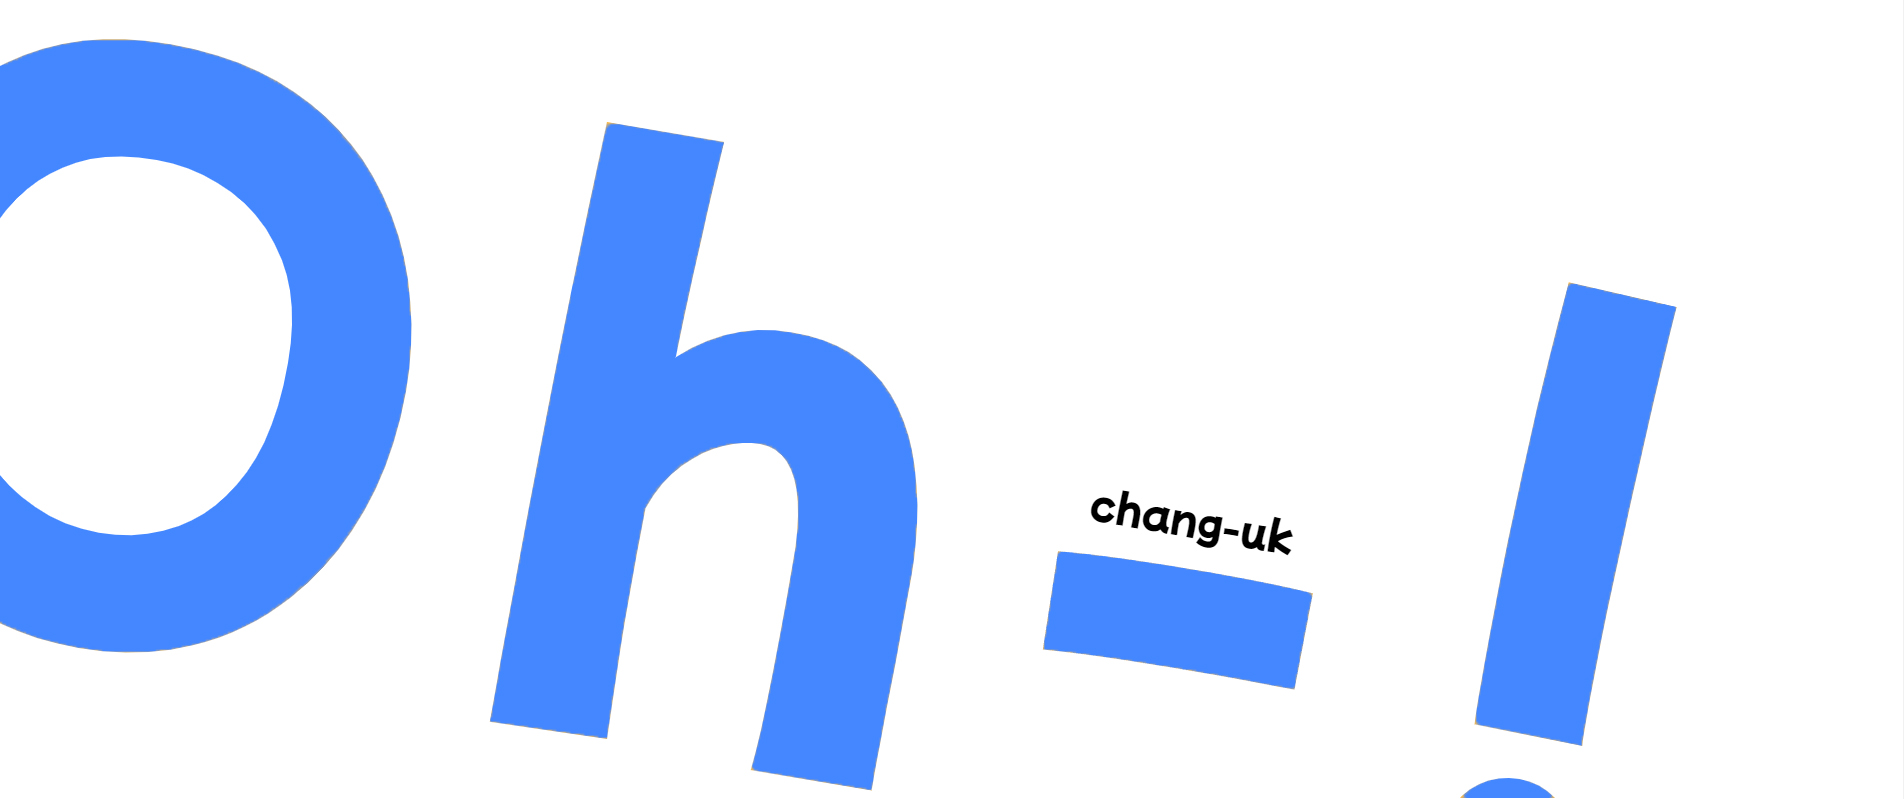
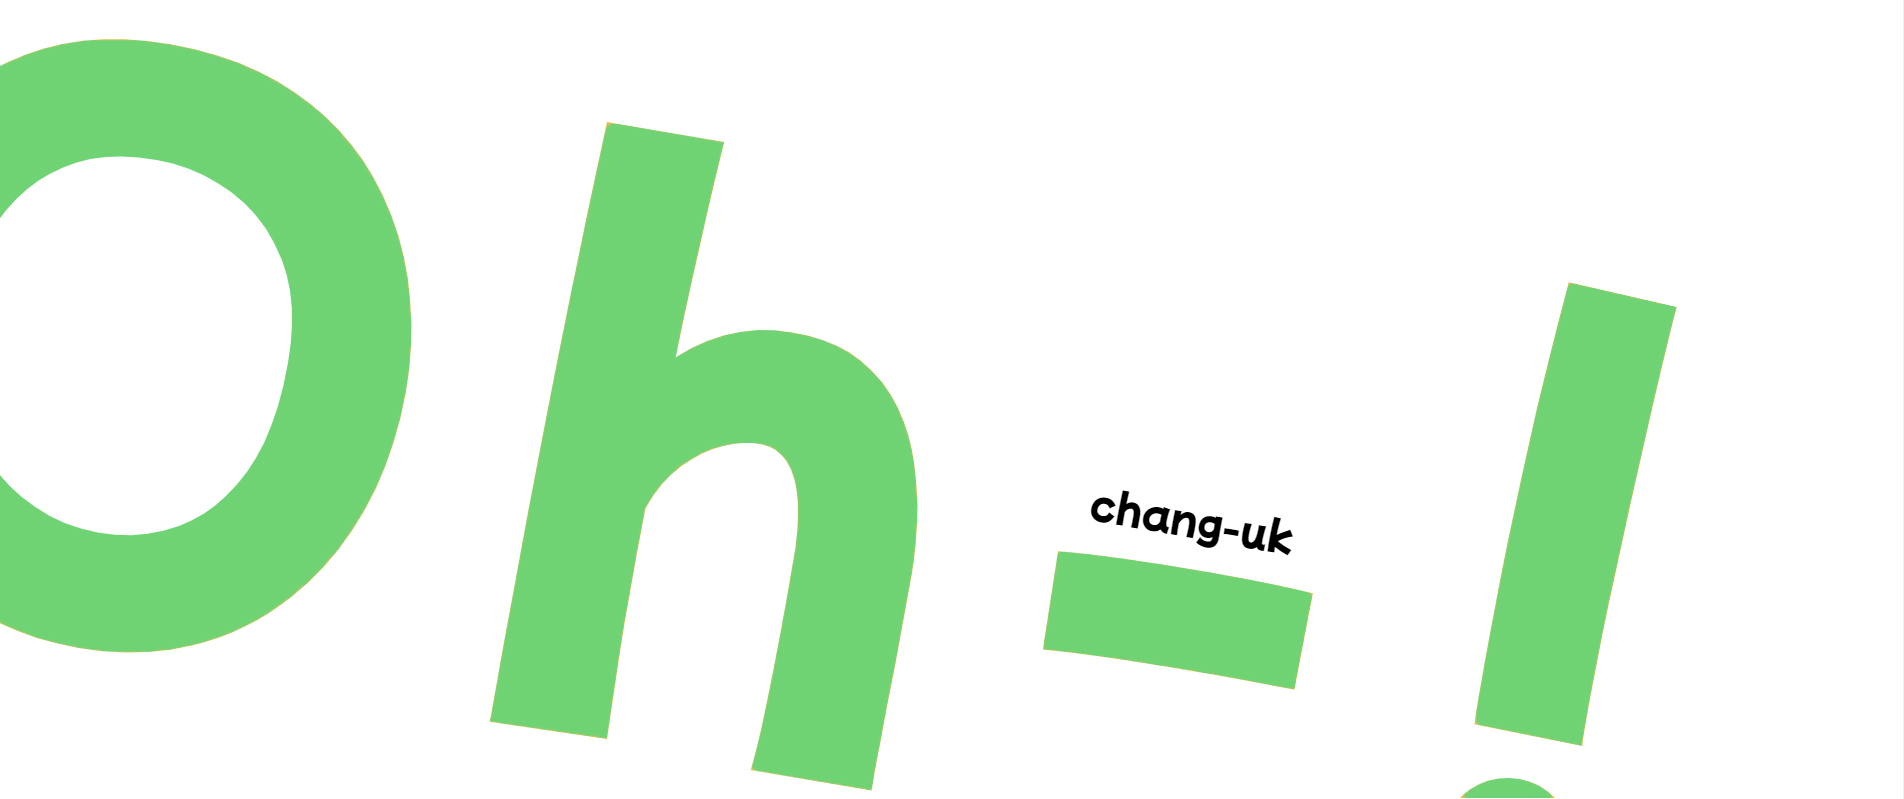
테마 색상 적용

diff --git a/src/components/Nav.js b/src/components/Nav.js
@@ -4,9 +4,9 @@ import { FontAwesomeIcon } from '@fortawesome/react-fontawesome'
 
 
 
-function Nav({scrollToComponent, AboutRef, SkillsRef, ProjectRef}) {
+function Nav({scrollToComponent, AboutRef, SkillsRef, ProjectRef, themeColor, buttons, theme, setTheme}) {
     const [nav, setNav] = useState(false)
-    const [theme, setTheme] = useState("orange")
+    
 
     const toggleNav = () => {
         setNav(!nav)
@@ -25,28 +25,7 @@ function Nav({scrollToComponent, AboutRef, SkillsRef, ProjectRef}) {
             "ref" : ProjectRef,
         }
     ]
-    const themeColor = {
-        "orange":{
-            "bg" : "bg-orange-500",
-            "hover" : "hover:text-orange-300",
-            "img" : "./../images/main.jpg"
-        },
-        "green":{
-            "bg" : "bg-green-400",
-            "hover" : "hover:text-green-300",
-            "img" : "./../images/main2.jpg"
-        },
-        "blue":{
-            "bg" : "bg-blue-400",
-            "hover" : "hover:text-blue-300",
-            "img" : "./../images/main1.jpg"
-        }
-    }
-    const buttons = [
-        {name: "오렌지", theme: "orange"},
-        {name: "그린", theme: "green"},
-        {name: "블루", theme: "blue"}
-    ]
+    
     
     const NavClick = (ref) => {
         scrollToComponent(ref)
@@ -58,11 +37,11 @@ function Nav({scrollToComponent, AboutRef, SkillsRef, ProjectRef}) {
   return (
     <>
         <div className="w-full border-b border-black bg-white py-5 sticky top-0 z-40">
-            <div className="max-w-7xl mx-auto flex justify-between text-[20px] font-bold px-[2%]">
+            <div className="max-w-7xl mx-auto flex items-center justify-between text-xl font-bold px-[2%]">
                 <div className="cursor-pointer  z-30">
                     <p onClick={()=>window.scrollTo({top:0, behavior:'smooth'})}>Oh-! ChangUk</p>
                 </div>
-                <div className="w-[500px] justify-between hidden lg:flex ">
+                <div className="w-[500px] justify-between items-center hidden lg:flex ">
                     {
                         list.map((e,i)=>{
                             return(
@@ -70,13 +49,18 @@ function Nav({scrollToComponent, AboutRef, SkillsRef, ProjectRef}) {
                             )
                         })
                     }
-                    {
-                        buttons.map((e,i)=>{
-                            return(
-                                <p key={i} onClick={()=>setTheme(e.theme)}>{e.name}</p>
-                            )
-                        })
-                    }
+                    <div className='flex gap-x-2 items-center text-base'>
+                        <p>테마 색상 : </p>
+                        <select onChange={(e) => setTheme(e.target.value)} className='outline-none border-[2px] border-black rounded-md'>
+                            {buttons.map((e, i) => {
+                                return (
+                                    <option key={i} value={e.theme}>
+                                        {e.name}
+                                    </option>
+                                );
+                            })}
+                        </select>
+                    </div>
                 </div>
                 
                 <div className="transition-all duration-1000 z-[100] cursor-pointer lg:hidden flex" onClick={() => {toggleNav() }}>
@@ -95,15 +79,27 @@ function Nav({scrollToComponent, AboutRef, SkillsRef, ProjectRef}) {
                         </div>
                     }
                 </div>
-                <div className={`w-full fixed bg-orange-100 top-[73px] left-0  px-[2%]  box-border lg:hidden navlist ${nav ? 'block' : 'hidden'}`}>
+                <div className={`${themeColor[theme].mobileNav} w-full fixed  top-[73px] left-0  px-[2%]  box-border lg:hidden navlist ${nav ? 'block' : 'hidden'}`}>
                     <ul>
                         {
                             list.map((e,i)=>{
                                 return(
-                                    <li onClick={()=>{NavClick(e.ref)}} key={i} className='my-8  cursor-pointer'>{e.title}</li>
+                                    <li onClick={()=>{NavClick(e.ref)}} key={i} className='my-8'>{e.title}</li>
                                 )
                             })
                         }
+                        <li className='flex gap-x-2 items-center my-8 text-base'>
+                            <p>테마 색상 : </p>
+                            <select onChange={(e) => setTheme(e.target.value)} className='outline-none border-[2px] border-black rounded-md'>
+                                {buttons.map((e, i) => {
+                                    return (
+                                        <option key={i} value={e.theme}>
+                                            {e.name}
+                                        </option>
+                                    );
+                                })}
+                            </select>
+                        </li>
                     </ul>
                 </div>
             </div>

diff --git a/src/components/Project.js b/src/components/Project.js
@@ -1,7 +1,7 @@
 import React, { useState } from 'react'
 import { NavLink } from 'react-router-dom'
 
-function Project({domRef}) {
+function Project({domRef, themeColor, theme}) {
     const [isActive, setIsActive] = useState(0)
     const [type, setType] = useState("전체")
     const menuArray = ["전체", "포트폴리오", "팀 프로젝트", "개인 프로젝트", "클론 코딩"]
@@ -80,7 +80,7 @@ function Project({domRef}) {
                     {
                         menuArray.map((e,i)=>{
                             return(
-                                <li key={i} onClick={()=>{setIsActive(i); setType(menuArray[i])}} className={`${isActive === i ? "bg-orange-400 text-white" : "bg-white text-black"} cursor-pointer md:mr-4 mr-2 border dark:bg-[#272929] dark:text-[#ebf4f1] md:block hidden py-2 px-5 rounded-md `}>{e}</li>
+                                <li key={i} onClick={()=>{setIsActive(i); setType(menuArray[i])}} className={`${isActive === i ? `${themeColor[theme].buttonBg} text-white` : "bg-white text-black"} cursor-pointer md:mr-4 mr-2 border dark:bg-[#272929] dark:text-[#ebf4f1] md:block hidden py-2 px-5 rounded-md `}>{e}</li>
                             )
                         })
                     }
@@ -104,7 +104,7 @@ function Project({domRef}) {
                             <div key={i} className=" lg:h-64 lg:basis-[32%] md:basis-[49%] basis-full md:mb-[2%] mb-[5%] relative">
                                 <div className="lg:h-full basis-full border border-[#ddd]">
                                     <img src={`./../images/${e.img}`} alt={e.project} className='lg:h-full md:h-48 h-44 w-full ' />
-                                    <div className="lg:block hidden  absolute inset-0 bg-orange-50 opacity-0 transition-opacity duration-500 hover:opacity-100">
+                                    <div className={`${themeColor[theme].bg} lg:block hidden  absolute inset-0 opacity-0 transition-opacity duration-500 hover:opacity-100 border border-[#ddd]`}>
                                             <div className="text-center absolute left-1/2 top-1/2 -translate-x-1/2 -translate-y-1/2 ">
                                                 <p className="text-2xl">{e.project}</p>
                                                 <p className='mb-2 text-sm'>({e.type})</p>
@@ -117,7 +117,7 @@ function Project({domRef}) {
                                                 </div>
                                             </div>
                                     </div>
-                                    <div className="lg:hidden text-center flex flex-col justify-center bg-orange-50 py-[2%]">
+                                    <div className={`${themeColor[theme].bg} lg:hidden text-center flex flex-col justify-center py-[2%]`}>
                                         <p className="text-2xl">{e.project}</p>
                                         <p className='mb-2 text-sm'>({e.type})</p>
                                         <p className="leading-7">{e.project_period}</p>

diff --git a/src/pages/Portfolio.js b/src/pages/Portfolio.js
@@ -1,4 +1,4 @@
-import React, { useRef } from 'react'
+import React, { useRef, useState } from 'react'
 import Header from '../components/Header'
 import Nav from '../components/Nav'
 import AboutMe from '../components/AboutMe'
@@ -11,6 +11,36 @@ function Portfolio() {
   const AboutRef = useRef(null);
   const SkillsRef = useRef(null);
   const ProjectRef = useRef(null);
+  const [theme, setTheme] = useState("orange")
+
+  const themeColor = {
+    "orange":{
+        "bg" : "bg-orange-50",
+        "mobileNav" : "bg-orange-100",
+        "buttonBg" : "bg-orange-400",
+        "hover" : "hover:text-orange-300",
+        "img" : "./../images/main.jpg"
+    },
+    "green":{
+        "bg" : "bg-green-50",
+        "mobileNav" : "bg-green-100",
+        "buttonBg" : "bg-green-400",
+        "hover" : "hover:text-green-300",
+        "img" : "./../images/main1.jpg"
+    },
+    "blue":{
+        "bg" : "bg-blue-50",
+        "mobileNav" : "bg-blue-100",
+        "buttonBg" : "bg-blue-400",
+        "hover" : "hover:text-blue-300",
+        "img" : "./../images/main2.jpg"
+    }
+}
+  const buttons = [
+      {name: "오렌지", theme: "orange"},
+      {name: "그린", theme: "green"},
+      {name: "블루", theme: "blue"}
+  ]
 
   const scrollToComponent = (ref) => {
     ref.current.scrollIntoView({ behavior: 'smooth' });
@@ -18,12 +48,12 @@ function Portfolio() {
 
   return (
     <>
-        <Nav scrollToComponent={scrollToComponent} HeaderRef={HeaderRef} AboutRef={AboutRef} SkillsRef={SkillsRef} ProjectRef={ProjectRef}  />
-        <Header domRef={HeaderRef} />
+        <Nav scrollToComponent={scrollToComponent} HeaderRef={HeaderRef} AboutRef={AboutRef} SkillsRef={SkillsRef} ProjectRef={ProjectRef} themeColor={themeColor} buttons={buttons} theme={theme} setTheme={setTheme}  />
+        <Header themeColor={themeColor} theme={theme} />
         <AboutMe domRef={AboutRef} />
-        <Skills domRef={SkillsRef} />
-        <Project domRef={ProjectRef} />
-        <Footer />
+        <Skills domRef={SkillsRef} themeColor={themeColor} theme={theme} />
+        <Project domRef={ProjectRef} themeColor={themeColor} theme={theme} />
+        <Footer themeColor={themeColor} theme={theme} />
     </>
   )
 }

diff --git a/src/components/Skills.js b/src/components/Skills.js
@@ -6,8 +6,9 @@ import 'swiper/css/pagination'
 import 'swiper/css/navigation'
 
 
-function Skills({domRef}) {
+function Skills({domRef, themeColor, theme}) {
     const [selectedImage, setSelectedImage] = useState(0);
+
 
     
     const skill = [
@@ -71,7 +72,7 @@ function Skills({domRef}) {
     
   return (
     <>
-        <div ref={domRef} className="w-full md:pt-48 pt-32 lg:pb-32 pb-28 bg-orange-50 font-bold">
+        <div ref={domRef} className={`w-full md:pt-48 pt-32 lg:pb-32 pb-28 font-bold ${themeColor[theme].bg}`}>
             <p className='text-center md:text-6xl text-4xl pb-5'>Skills</p>
             <p className="text-center md:text-xl text-base">사용 가능한 기술 스택입니다.</p>
             <div className="flex max-w-7xl mx-auto lg:pt-[140px] md:pt-[130px] pt-20 justify-between px-[2%]">
@@ -114,11 +115,13 @@ function Skills({domRef}) {
             
                 <p className='lg:text-[130px] md:text-[100px] text-[15vw]'>!</p>
             </div>
-            {selectedImage !== null && (
-                <div className='px-[2%] mt-[2%] text-center md:text-xl text-base z-30'>
-                    {skill[selectedImage].name} : {skill[selectedImage].explanation}
-                </div>
-            )}
+            <div className="">
+                {selectedImage !== null && (
+                    <div className='px-[2%] mt-[2%] text-center md:text-xl text-base z-30'>
+                        {skill[selectedImage].name} : {skill[selectedImage].explanation}
+                    </div>
+                )}
+            </div>
         </div>
     </>
   )

diff --git a/src/components/Footer.js b/src/components/Footer.js
@@ -1,10 +1,10 @@
 import React from 'react'
 import { NavLink } from 'react-router-dom'
 
-function Footer() {
+function Footer({themeColor, theme}) {
   return (
     <>
-        <div className="bg-orange-50 py-14  w-full">
+        <div className={`${themeColor[theme].bg} py-14  w-full`}>
             <NavLink to={"https://github.com/OhChangUk"} target='_blank' className="">
                 <img src="./../images/skill6.png" alt="github" className='w-14 mx-auto mb-5' />
             </NavLink>

diff --git a/src/components/Header.js b/src/components/Header.js
@@ -2,11 +2,11 @@ import React from 'react'
 import 'animate.css'
 
 
-function Header() {
+function Header({themeColor, theme}) {
   return (
     <>
       <div className="w-full overflow-hidden">
-        <img src="./../images/main.jpg" alt="main" className='w-full custom-animation ' />
+        <img src={`${themeColor[theme].img}`} alt="main" className='w-full custom-animation ' />
       </div>
     </>
   )
